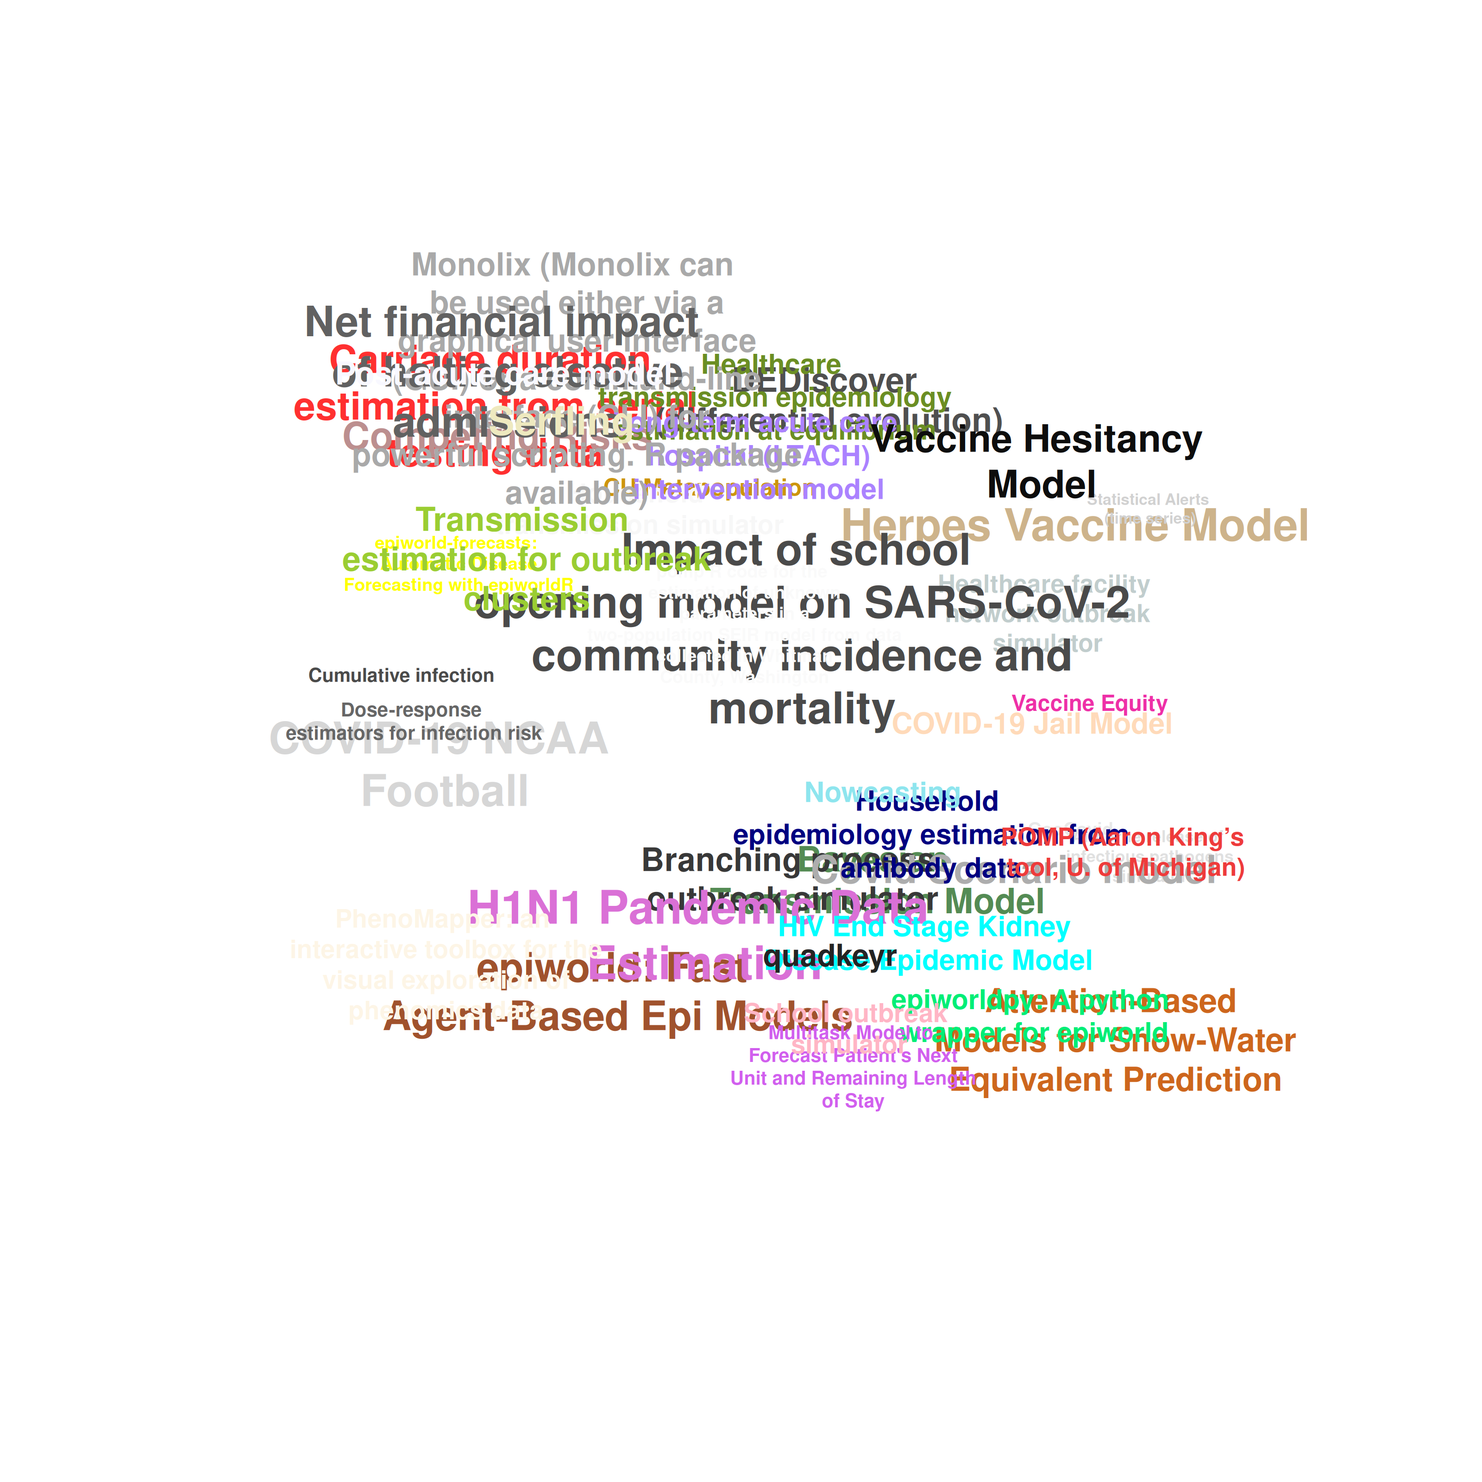
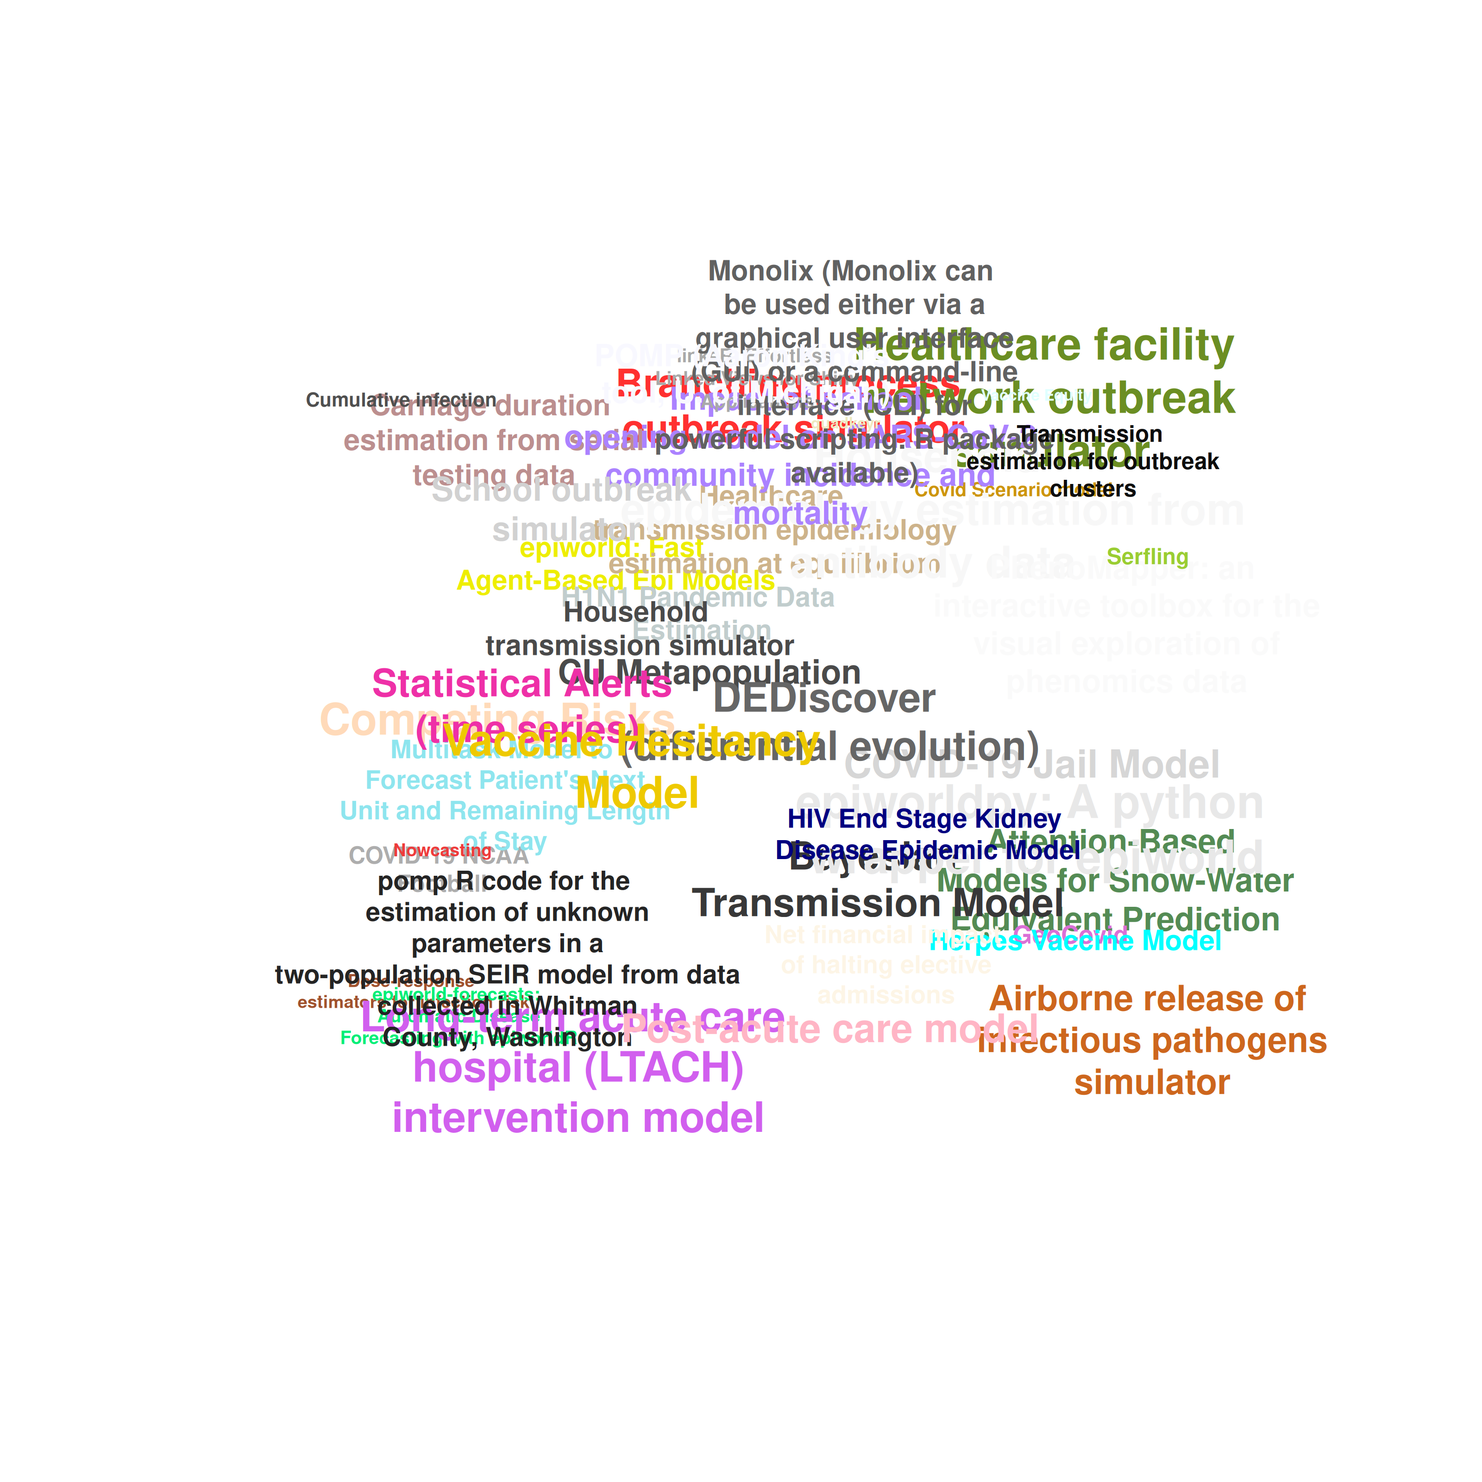
Add linkeR to software packages (#51)
* Add linkeR to software packages

* Automatic README update

Changed region(s): [[0.1875, 0.1562, 0.9062, 0.7812]]

diff --git a/README.md b/README.md
@@ -2,32 +2,32 @@
 
 # Software development coordination
 
-[![ForeSITE
-Group](./docs/assets/foresite-software-badge.svg)](https://github.com/EpiForeSITE)
+[![](./docs/assets/foresite-software-badge.svg)](https://github.com/EpiForeSITE)
 
 This repository is used for coordinating all the software development
 activities by the ForeSITE group.
 
-The list includes 41 tools. A complete list featuring completed and
-work-in-progress tools holds 56 entries. We will be updating this list
+The list includes 42 tools. A complete list featuring completed and
+work-in-progress tools holds 57 entries. We will be updating this list
 as we progress.
 
 |     | Type                                                      |   N |
 |:----|:----------------------------------------------------------|----:|
-| 4   | Epidemic Model - Scenario Modeling                        |  20 |
-| 7   | Parameter estimation                                      |  12 |
-| 5   | Epidemic Model - Scenario Modeling & Parameter estimation |   2 |
+| 5   | Epidemic Model - Scenario Modeling                        |  20 |
+| 8   | Parameter estimation                                      |  12 |
+| 6   | Epidemic Model - Scenario Modeling & Parameter estimation |   2 |
 | 1   | Automation pipeline tool                                  |   1 |
 | 2   | Decision Support tool                                     |   1 |
-| 3   | Epidemic Model - Forecasting                              |   1 |
-| 6   | Nowcasting tool                                           |   1 |
-| 8   | Statistical Model - Forecasting                           |   1 |
+| 3   | Developer Tool                                            |   1 |
+| 4   | Epidemic Model - Forecasting                              |   1 |
+| 7   | Nowcasting tool                                           |   1 |
+| 9   | Statistical Model - Forecasting                           |   1 |
 
 Number of software packages by type
 
 | Language |   N |
 |:---------|----:|
-| r        |  21 |
+| r        |  22 |
 | Other    |  11 |
 | python   |   7 |
 | c++      |   3 |
@@ -41,7 +41,7 @@ Number of software packages by programming language.
 # Existing software packages
 
 List of existing software packages that are being used by the ForeSITE
-group. This list was last updated on 2025-02-19.
+group. This list was last updated on 2025-07-17.
 
 | N | Tool | Description |
 |---:|:---|:---|
@@ -70,21 +70,22 @@ group. This list was last updated on 2025-02-19.
 | 23 | Household epidemiology estimation from antibody data (R) | Simultaneously estimate household importation risk, household secondary attack rate, and associated variability / heterogeneities using point-prevalence data for antibody positivity among household members. Parameter estimated: Household importation probability, household secondary attack rate, sensitivity / specificity of data for indicating prior infection, variability (dispersion) in transmissibility, and heterogeneities in those quantities over age and/or other identifiable characteristics of individuals and households. Estimates derived via maximum likelihood for final household outbreak size equations.<br>([Learn more…](profiles.md#household-epidemiology-estimation-from-antibody-data))<br> |
 | 24 | Household transmission simulator (R) | Simulate household importation and within-household transmission across a population of households, and intervention effects, e.g. vaccination. Scenarios(s) Modeled: Household importation and transmission with variability in transmissibility and heterogeneity across age groups and vaccination status.<br>([Learn more…](profiles.md#household-transmission-simulator))<br> |
 | 25 | Impact of school opening model on SARS-CoV-2 community incidence and mortality (Stata) | The goal of this statistical analysis was to compare SARS-CoV-2 community incidence and mortality rates across schools that opened in in-person, remote, or hybrid mode. Measure(s) of Economic Impact: Infections and mortality<br>([Learn more…](profiles.md#impact-of-school-opening-model-on-sars-cov-2-community-incidence-and-mortality))<br> |
-| 26 | Long-term acute care hospital (LTACH) intervention model (R) | Provides analytic framework for investigating patient-focused interventions to prevent transmission in high-risk healthcare facilities and their direct and population-level health impacts and threshold effects. Scenarios(s) Modeled: Intervention scenarios for surveillance and isolation (contact precautions), decolonization drugs, infection treatment, horizontal transmission reduction, and length of stay reduction.<br>([Learn more…](profiles.md#long-term-acute-care-hospital-ltach-intervention-model))<br> |
-| 27 | Monolix (Monolix can be used either via a graphical user interface (GUI) or a command-line interface (CLI) for powerful scripting. R package available) | Parameter estimation in non-linear mixed effect models. Parameter estimated: Any.<br>([Learn more…](profiles.md#monolix))<br> |
-| 28 | Multitask Model to Forecast Patient’s Next Unit and Remaining Length of Stay (Python) | Length of Stay prediction and unit transfer prediction tool. Scenarios(s) Modeled: In this multi-task learning model, we train the model to predict:Task-1: patient’s unit label in next time step. Task-2: patient’s remaining length of stay.The model inputs get updated on a daily basis and generates prediction accordingly.<br>([Learn more…](profiles.md#multitask-model-to-forecast-patient-s-next-unit-and-remaining-length-of-stay))<br>**GitHub:** [![GitHub last commit](https://img.shields.io/github/last-commit/madhobi/multitask_unit_and_days.png)](https://github.com/madhobi/multitask_unit_and_days) |
-| 29 | Net financial impact of halting elective admissions (Stata) | The goal of this model was to estimate the net financial impact to the hospital of halting elective admissions due to a COVID-19 surge. Measure(s) of Economic Impact: Hospital profit<br>([Learn more…](profiles.md#net-financial-impact-of-halting-elective-admissions))<br> |
-| 30 | Nowcasting (TBD) | Given the time lag between laboratory testing for disease and eventual reporting, we’ve developed a model which consumes data from both community and VA to predict “now” how many positive tests for a disease (COVID-19 in this context) will eventually be reported as positive. A VA HSR&D abstract is available.<br>([Learn more…](profiles.md#nowcasting))<br> |
-| 31 | PhenoMapper: an interactive toolbox for the visual exploration of phenomics data (PhenoMapper extension) | TDA tool that can possibly help us to view some trajectory data. Scenarios(s) Modeled: We demonstrate the utility of this new tool on real-world plant (e.g., maize) phenomics datasets.<br>([Learn more…](profiles.md#phenomapper-an-interactive-toolbox-for-the-visual-exploration-of-phenomics-data))<br>**GitHub:** [![GitHub last commit](https://img.shields.io/github/last-commit/tdavislab/PhenoMapper.png)](https://github.com/tdavislab/PhenoMapper) |
-| 32 | POMP (Aaron King’s tool, U. of Michigan) (R) | Analysis of time series data based on stochastic dynamical systems models<br>([Learn more…](profiles.md#pomp-aaron-king-s-tool-u-of-michigan))<br>**GitHub:** [![GitHub last commit](https://img.shields.io/github/last-commit/kingaa/pomp.png)](https://github.com/kingaa/pomp) |
-| 33 | pomp R code for the estimation of unknown parameters in a two-population SEIR model from data collected in Whitman County, Washington (R) | Build a two-population SEIR model using the pomp coding framework in R and estimate the unknown parameters in this model using the PMCMC algorithm. Parameter estimated: Transmission parameters (transmission within each population and transmission across the two-populations), testing probability, and overdispersion parameter.<br>([Learn more…](profiles.md#pomp-r-code-for-the-estimation-of-unknown-parameters-in-a-two-population-seir-model-from-data-collected-in-whitman-county-washington))<br> |
-| 34 | Post-acute care model (R) | A basic model to plan for the post-acute care needs following a hospital surge<br>([Learn more…](profiles.md#post-acute-care-model))<br>**GitHub:** [![GitHub last commit](https://img.shields.io/github/last-commit/mattrmaloney/covid-post-acute-care.png)](https://github.com/mattrmaloney/covid-post-acute-care) |
-| 35 | quadkeyr (Python) | An R package designed to create raster images from QuadKey-identified data (Microsoft Bing Maps Tile System), aiming to simplify the analysis of Facebook mobility data.<br>([Learn more…](profiles.md#quadkeyr))<br>**GitHub:** [![GitHub last commit](https://img.shields.io/github/last-commit/Fernandez-Lab-WSU/quadkeyr.png)](https://github.com/Fernandez-Lab-WSU/quadkeyr) |
-| 36 | School outbreak simulator (Anylogic) | Agent-based simulation of person-to-person transmission at schools over data-based dynamic proximity contact networks. Scenarios(s) Modeled: Transmission modeled during school hours; can model interventions affecting the contact network and school attendance behavior.<br>([Learn more…](profiles.md#school-outbreak-simulator))<br> |
-| 37 | Serfling (JMP) | Classic Serfling-type regression model for seasonal diseases. Can be used to estimate both excess risk (based on breaching a threshold), or estimate the peak week and other parameters of a yearly epidemic curve.<br>([Learn more…](profiles.md#serfling))<br> |
-| 38 | Statistical Alerts (time series) (R) | We have supported an Operations system for processing time series for “aberrations” (aka, “alerts”, “potential outbreaks”) for 8+ years in VA BASIC. During this time, we’ve integrated several among the suite of algorithms available in the R package titled “surveillance”. This includes several classes of numerical methods, of which some are window-based, control chart-based or trained linear models. A brief presentation on this is attached here.<br>([Learn more…](profiles.md#statistical-alerts-time-series))<br> |
-| 39 | Transmission estimation for outbreak clusters (R) | Provides estimates for individual-level transmission distribution (mean and variance) based on data from prior isolated outbreak clusters. Useful for quantifying the risk of superspreading events and the risk that future outbreaks will exceed a given threshold.Parameter estimated: Basic reproduction number; dispersion parameter quantifying variance in transmission; extensions estimate changes in reproduction number by generation, e.g. post-control reproduction number. Estimated via maximum likelihood using final size distribution equations for branching process models.<br>([Learn more…](profiles.md#transmission-estimation-for-outbreak-clusters))<br> |
-| 40 | Vaccine Equity (R) | A tool for exploring the effects of varying rates of vaccination among disparate socio-economic groups<br>([Learn more…](profiles.md#vaccine-equity))<br>**GitHub:** [![GitHub last commit](https://img.shields.io/github/last-commit/EpiForeSITE/vaccine-equity-model.png)](https://github.com/EpiForeSITE/vaccine-equity-model) |
-| 41 | Vaccine Hesitancy Model (Matlab, R, and Mathematica.) | An ODE (ordinary differential equation)-based SVEIR model with 3 compartments for symptoms (mild, moderate, severe) that can quantify the tradeoffs between vaccine efficacy and vaccine hesitancy on reducing the disease burden. Scenarios(s) Modeled: R0, cumulative infections, and deaths due to varying values of transmission rate, vaccine coverage rate, vaccine efficacy, and vaccine hesitancy. The vaccine efficacy required to compensate for different levels of vaccine hesitancy.<br>([Learn more…](profiles.md#vaccine-hesitancy-model))<br> |
+| 26 | linkeR: Effortless Linked Views for Shiny Applications (R) | linkeR makes it effortless to create linked views in Shiny applications. When users interact with one component (like clicking a map marker), all related components (tables, charts, other maps) automatically update to show corresponding information.<br>([Learn more…](profiles.md#linker-effortless-linked-views-for-shiny-applications))<br>**GitHub:** [![GitHub last commit](https://img.shields.io/github/last-commit/EpiForeSITE/linkeR/.png)](https://github.com/EpiForeSITE/linkeR/) |
+| 27 | Long-term acute care hospital (LTACH) intervention model (R) | Provides analytic framework for investigating patient-focused interventions to prevent transmission in high-risk healthcare facilities and their direct and population-level health impacts and threshold effects. Scenarios(s) Modeled: Intervention scenarios for surveillance and isolation (contact precautions), decolonization drugs, infection treatment, horizontal transmission reduction, and length of stay reduction.<br>([Learn more…](profiles.md#long-term-acute-care-hospital-ltach-intervention-model))<br> |
+| 28 | Monolix (Monolix can be used either via a graphical user interface (GUI) or a command-line interface (CLI) for powerful scripting. R package available) | Parameter estimation in non-linear mixed effect models. Parameter estimated: Any.<br>([Learn more…](profiles.md#monolix))<br> |
+| 29 | Multitask Model to Forecast Patient’s Next Unit and Remaining Length of Stay (Python) | Length of Stay prediction and unit transfer prediction tool. Scenarios(s) Modeled: In this multi-task learning model, we train the model to predict:Task-1: patient’s unit label in next time step. Task-2: patient’s remaining length of stay.The model inputs get updated on a daily basis and generates prediction accordingly.<br>([Learn more…](profiles.md#multitask-model-to-forecast-patient-s-next-unit-and-remaining-length-of-stay))<br>**GitHub:** [![GitHub last commit](https://img.shields.io/github/last-commit/madhobi/multitask_unit_and_days.png)](https://github.com/madhobi/multitask_unit_and_days) |
+| 30 | Net financial impact of halting elective admissions (Stata) | The goal of this model was to estimate the net financial impact to the hospital of halting elective admissions due to a COVID-19 surge. Measure(s) of Economic Impact: Hospital profit<br>([Learn more…](profiles.md#net-financial-impact-of-halting-elective-admissions))<br> |
+| 31 | Nowcasting (TBD) | Given the time lag between laboratory testing for disease and eventual reporting, we’ve developed a model which consumes data from both community and VA to predict “now” how many positive tests for a disease (COVID-19 in this context) will eventually be reported as positive. A VA HSR&D abstract is available.<br>([Learn more…](profiles.md#nowcasting))<br> |
+| 32 | PhenoMapper: an interactive toolbox for the visual exploration of phenomics data (PhenoMapper extension) | TDA tool that can possibly help us to view some trajectory data. Scenarios(s) Modeled: We demonstrate the utility of this new tool on real-world plant (e.g., maize) phenomics datasets.<br>([Learn more…](profiles.md#phenomapper-an-interactive-toolbox-for-the-visual-exploration-of-phenomics-data))<br>**GitHub:** [![GitHub last commit](https://img.shields.io/github/last-commit/tdavislab/PhenoMapper.png)](https://github.com/tdavislab/PhenoMapper) |
+| 33 | POMP (Aaron King’s tool, U. of Michigan) (R) | Analysis of time series data based on stochastic dynamical systems models<br>([Learn more…](profiles.md#pomp-aaron-king-s-tool-u-of-michigan))<br>**GitHub:** [![GitHub last commit](https://img.shields.io/github/last-commit/kingaa/pomp.png)](https://github.com/kingaa/pomp) |
+| 34 | pomp R code for the estimation of unknown parameters in a two-population SEIR model from data collected in Whitman County, Washington (R) | Build a two-population SEIR model using the pomp coding framework in R and estimate the unknown parameters in this model using the PMCMC algorithm. Parameter estimated: Transmission parameters (transmission within each population and transmission across the two-populations), testing probability, and overdispersion parameter.<br>([Learn more…](profiles.md#pomp-r-code-for-the-estimation-of-unknown-parameters-in-a-two-population-seir-model-from-data-collected-in-whitman-county-washington))<br> |
+| 35 | Post-acute care model (R) | A basic model to plan for the post-acute care needs following a hospital surge<br>([Learn more…](profiles.md#post-acute-care-model))<br>**GitHub:** [![GitHub last commit](https://img.shields.io/github/last-commit/mattrmaloney/covid-post-acute-care.png)](https://github.com/mattrmaloney/covid-post-acute-care) |
+| 36 | quadkeyr (Python) | An R package designed to create raster images from QuadKey-identified data (Microsoft Bing Maps Tile System), aiming to simplify the analysis of Facebook mobility data.<br>([Learn more…](profiles.md#quadkeyr))<br>**GitHub:** [![GitHub last commit](https://img.shields.io/github/last-commit/Fernandez-Lab-WSU/quadkeyr.png)](https://github.com/Fernandez-Lab-WSU/quadkeyr) |
+| 37 | School outbreak simulator (Anylogic) | Agent-based simulation of person-to-person transmission at schools over data-based dynamic proximity contact networks. Scenarios(s) Modeled: Transmission modeled during school hours; can model interventions affecting the contact network and school attendance behavior.<br>([Learn more…](profiles.md#school-outbreak-simulator))<br> |
+| 38 | Serfling (JMP) | Classic Serfling-type regression model for seasonal diseases. Can be used to estimate both excess risk (based on breaching a threshold), or estimate the peak week and other parameters of a yearly epidemic curve.<br>([Learn more…](profiles.md#serfling))<br> |
+| 39 | Statistical Alerts (time series) (R) | We have supported an Operations system for processing time series for “aberrations” (aka, “alerts”, “potential outbreaks”) for 8+ years in VA BASIC. During this time, we’ve integrated several among the suite of algorithms available in the R package titled “surveillance”. This includes several classes of numerical methods, of which some are window-based, control chart-based or trained linear models. A brief presentation on this is attached here.<br>([Learn more…](profiles.md#statistical-alerts-time-series))<br> |
+| 40 | Transmission estimation for outbreak clusters (R) | Provides estimates for individual-level transmission distribution (mean and variance) based on data from prior isolated outbreak clusters. Useful for quantifying the risk of superspreading events and the risk that future outbreaks will exceed a given threshold.Parameter estimated: Basic reproduction number; dispersion parameter quantifying variance in transmission; extensions estimate changes in reproduction number by generation, e.g. post-control reproduction number. Estimated via maximum likelihood using final size distribution equations for branching process models.<br>([Learn more…](profiles.md#transmission-estimation-for-outbreak-clusters))<br> |
+| 41 | Vaccine Equity (R) | A tool for exploring the effects of varying rates of vaccination among disparate socio-economic groups<br>([Learn more…](profiles.md#vaccine-equity))<br>**GitHub:** [![GitHub last commit](https://img.shields.io/github/last-commit/EpiForeSITE/vaccine-equity-model.png)](https://github.com/EpiForeSITE/vaccine-equity-model) |
+| 42 | Vaccine Hesitancy Model (Matlab, R, and Mathematica.) | An ODE (ordinary differential equation)-based SVEIR model with 3 compartments for symptoms (mild, moderate, severe) that can quantify the tradeoffs between vaccine efficacy and vaccine hesitancy on reducing the disease burden. Scenarios(s) Modeled: R0, cumulative infections, and deaths due to varying values of transmission rate, vaccine coverage rate, vaccine efficacy, and vaccine hesitancy. The vaccine efficacy required to compensate for different levels of vaccine hesitancy.<br>([Learn more…](profiles.md#vaccine-hesitancy-model))<br> |
 
 ![](README_files/figure-commonmark/wordcloud-1.png)

diff --git a/profiles.md b/profiles.md
@@ -1,6 +1,6 @@
 # Profiles
 
-This file is automatically generated and should not be edited manually. Last updated on 2025-02-19.
+This file is automatically generated and should not be edited manually. Last updated on 2025-07-17.
 
 ## Airborne release of infectious pathogens simulator
 
@@ -211,6 +211,14 @@ The goal of this statistical analysis was to compare SARS-CoV-2 community incide
 Contact: Richard Nelson (email: richard.nelson@utah.edu)
 
 Links:<br> https://www.nature.com/articles/s41591-021-01563-8
+
+## linkeR: Effortless Linked Views for Shiny Applications
+
+linkeR makes it effortless to create linked views in Shiny applications. When users interact with one component (like clicking a map marker), all related components (tables, charts, other maps) automatically update to show corresponding information.
+
+Contact: Jake Wagoner (email: jakew@sci.utah.edu)
+
+Links:<br> https://epiforesite.github.io/linkeR/
 
 ## Long-term acute care hospital (LTACH) intervention model
 
